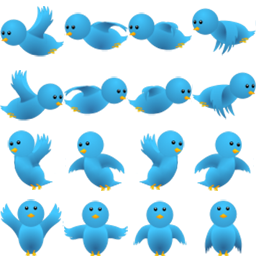
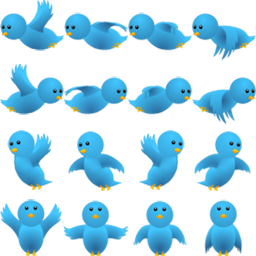
Realign some of the bird sprites and other minor things.

diff --git a/TheGame/js/target.js b/TheGame/js/target.js
@@ -2,28 +2,28 @@ function createTarget()
 {
     //setting the target
     centerSpriteSheet = new createjs.SpriteSheet({
-        "images": ['resources/pictures/target2Bird.png'],
+        "images": [queue.getResult('bird')],
         "frames": {"width": targetWidth, "height": targetHeight},
         "framerate": 15,
         "animations": { "target": [12,15] }
     });
     leftToRightSpriteSheet = new createjs.SpriteSheet({
-        "images": ['resources/pictures/target2Bird.png'],
+        "images": [queue.getResult('bird')],
         "frames": {"width": targetWidth, "height": targetHeight},
         "framerate": 15,
         "animations": { "target": [4,7] }
     });
     rightT0LeftSpriteSheet = new createjs.SpriteSheet({
-        "images": ['resources/pictures/target2Bird.png'],
+        "images": [queue.getResult('bird')],
         "frames": {"width": targetWidth, "height": targetHeight},
         "framerate": 15,
         "animations": {"target": [0,3]}
     });
     deadSpriteSheet = new createjs.SpriteSheet({
-        "images": ['resources/pictures/targetDie.png'],
+        "images": [queue.getResult('dead')],
         "frames": {"width": 100, "height": 100},
         "framerate": 5,
-        "animations": { "target": [0,11, ]}
+        "animations": { "target": [0,11]}
     });
 
     targetAnimation = new createjs.Sprite(centerSpriteSheet, "target");

diff --git a/TheGame/js/main.js b/TheGame/js/main.js
@@ -44,7 +44,9 @@ function init(){
         {id: 'reload', src: 'resources/audio/Reload.mp3'},
         {id: 'crosshair', src: 'resources/pictures/crosshair.png'},
         {id: 'bgImg', src: 'resources/pictures/backgroundImg.jpg'},
-        {id: 'bullet', src: 'resources/pictures/bullet.png'}
+        {id: 'bullet', src: 'resources/pictures/bullet.png'},
+        {id: 'bird', src: 'resources/pictures/target2Bird.png'},
+        {id: 'dead', src: 'resources/pictures/targetDie.png'}
     ]);
 
     targetXPos = 60;

diff --git a/TheGame/js/interface.js b/TheGame/js/interface.js
@@ -1,7 +1,7 @@
 var magazine,
     capacity = 6,
     bullet,
-    horizontalSpace;
+    horizontalSpace,
     clock;
 
 function drawInitialBullets() {
